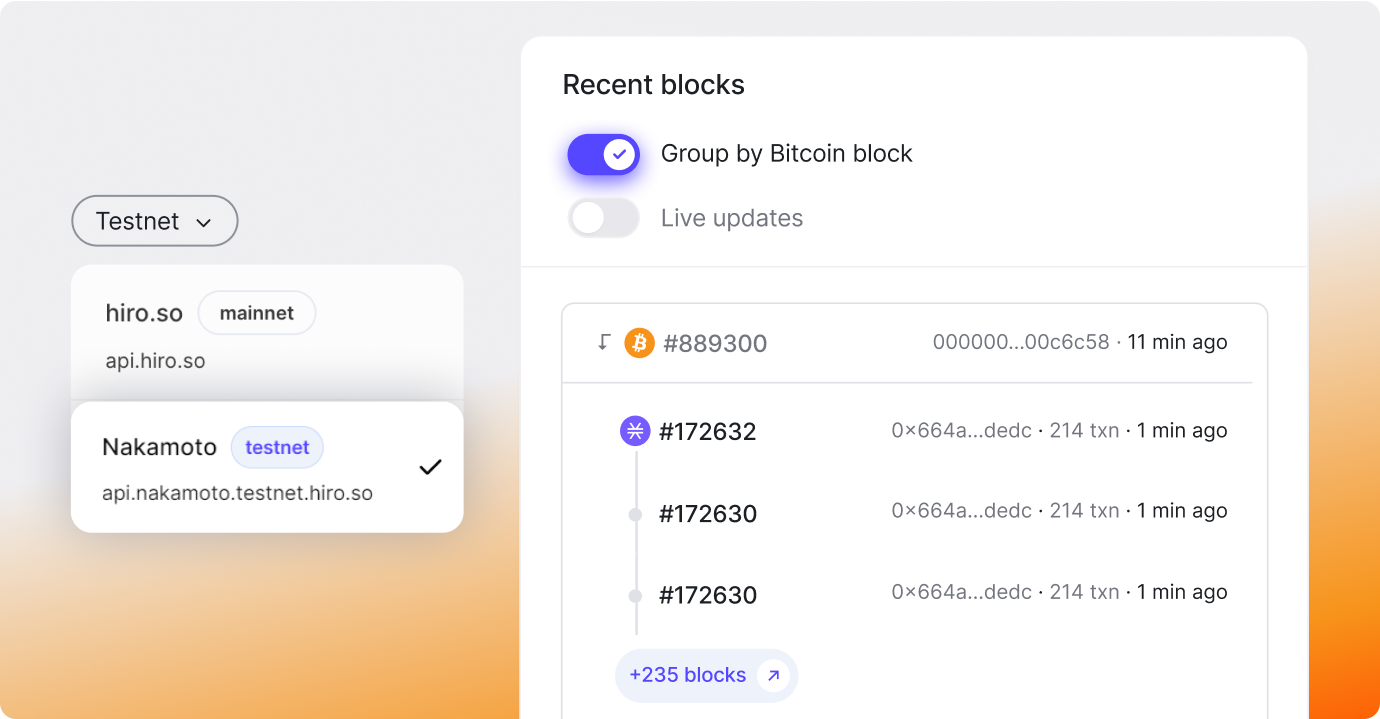
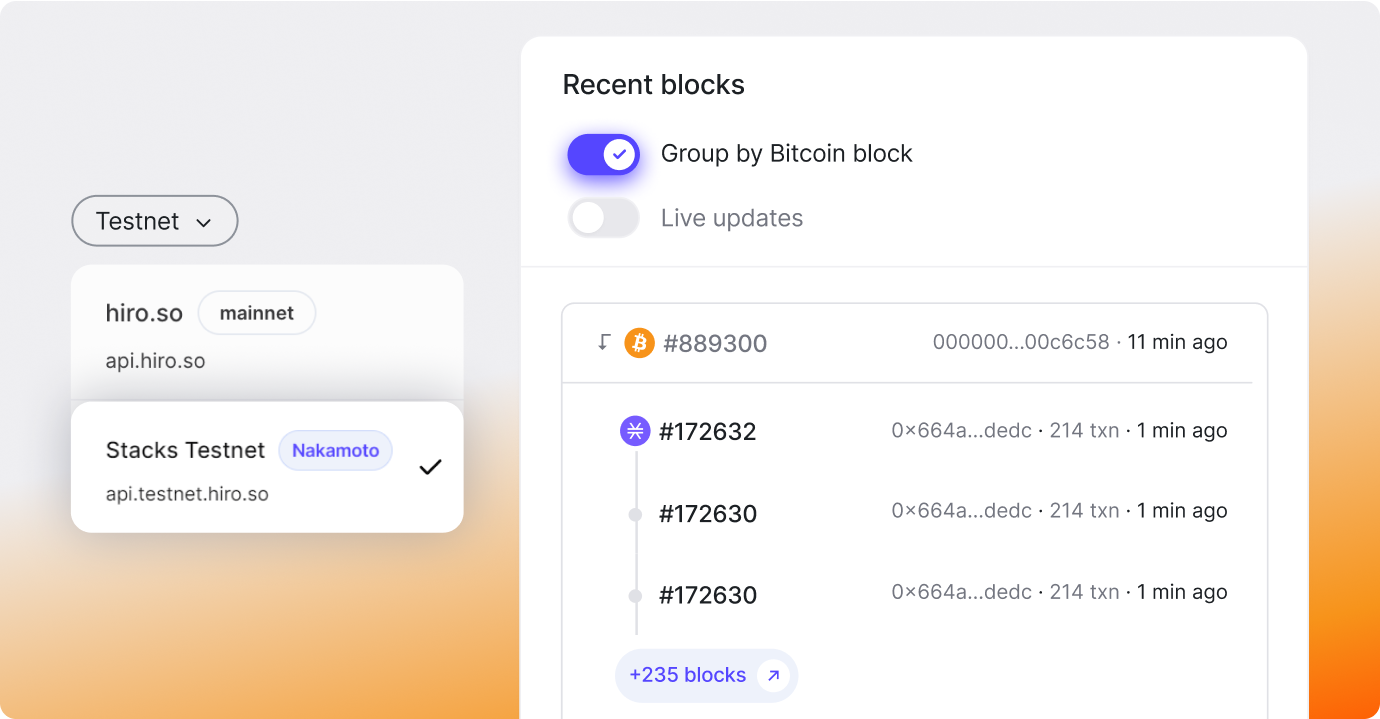
feat: epoch 2.5 testnet updates

Changed region(s): [[0.0623, 0.6732, 0.2804, 0.7038], [0.0623, 0.612, 0.2804, 0.6426]]

diff --git a/src/app/_components/PageWrapper.tsx b/src/app/_components/PageWrapper.tsx
@@ -1,22 +1,16 @@
 'use client';
 
 import { useColorModeValue } from '@chakra-ui/react';
-import { css } from '@emotion/react';
 import React, { ReactNode } from 'react';
-import { IncidentImpact } from 'statuspage.io';
 
 import { AddNetworkModal } from '../../common/components/modals/AddNetwork';
 import { NakamotoModal } from '../../common/components/modals/Nakamoto';
 import { TokenPrice } from '../../common/types/tokenPrice';
 import { Flex } from '../../ui/Flex';
-import { Text } from '../../ui/Text';
-import { TextLink } from '../../ui/TextLink';
 import { Footer } from './Footer';
 import { NavBar } from './NavBar';
 import { NetworkModeToast } from './NetworkModeToast';
 import { IncidentsStatusBarWithErrorBoundary } from './StatusBar';
-import { StatusBarBase } from './StatusBar/StatusBarBase';
-import { getColor } from './StatusBar/utils';
 
 function WrapperWithBg({ children }: { children: ReactNode }) {
   return (
@@ -62,36 +56,6 @@ export function PageWrapper({
 }) {
   return (
     <>
-      <StatusBarBase
-        impact={IncidentImpact.Minor}
-        content={
-          <Flex direction={'column'}>
-            <Text
-              color={getColor(IncidentImpact.Minor)}
-              fontWeight={'medium'}
-              fontSize={'14px'}
-              lineHeight={'1.5'}
-            >
-              https://api.testnet.hiro.so/ will be Nakamoto Instantiated [epoch-2.5] at Burn Block
-              2,583,893. The current chainstate will stay intact for this update and will not be
-              reset.
-            </Text>
-            <Text fontWeight={400} fontSize={'14px'} color={'#000000'} lineHeight={'1.5'}>
-              <TextLink
-                href="https://stacks.org/nakamoto-testnet-instantiated"
-                target="_blank"
-                css={css`
-                  display: inline;
-                  text-decoration: underline;
-                `}
-              >
-                More details here
-              </TextLink>
-              .
-            </Text>
-          </Flex>
-        }
-      />
       <IncidentsStatusBarWithErrorBoundary />
       <NakamotoModal />
       <WrapperWithBg>

diff --git a/src/common/context/GlobalContext.tsx b/src/common/context/GlobalContext.tsx
@@ -41,7 +41,7 @@ export const GlobalContext = createContext<GlobalContextProps>({
   btcTxBaseUrls: NetworkModeBtcTxBaseUrlMap,
   btcAddressBaseUrls: NetworkModeBtcAddressBaseUrlMap,
   activeNetwork: {
-    label: 'hiro.so',
+    label: 'Stacks Mainnet',
     url: NetworkModeUrlMap[NetworkModes.Mainnet],
     btcBlockBaseUrl: NetworkModeBtcBlockBaseUrlMap[NetworkModes.Mainnet],
     btcTxBaseUrl: NetworkModeBtcTxBaseUrlMap[NetworkModes.Mainnet],
@@ -102,7 +102,7 @@ export const AppContextProvider: FC<{
   const networks: Record<string, Network> = useMemo<Record<string, Network>>(
     () => ({
       [apiUrls[NetworkModes.Mainnet]]: {
-        label: 'hiro.so',
+        label: 'Stack Mainnet',
         url: apiUrls[NetworkModes.Mainnet],
         btcBlockBaseUrl: NetworkModeBtcBlockBaseUrlMap[NetworkModes.Mainnet],
         btcTxBaseUrl: NetworkModeBtcTxBaseUrlMap[NetworkModes.Mainnet],
@@ -111,7 +111,7 @@ export const AppContextProvider: FC<{
         mode: NetworkModes.Mainnet,
       },
       'https://api.nakamoto.testnet.hiro.so': {
-        label: 'Nakamoto',
+        label: 'Nakamoto Testnet',
         url: 'https://api.nakamoto.testnet.hiro.so',
         btcBlockBaseUrl: NetworkModeBtcBlockBaseUrlMap[NetworkModes.Testnet],
         btcTxBaseUrl: NetworkModeBtcTxBaseUrlMap[NetworkModes.Testnet],
@@ -121,7 +121,7 @@ export const AppContextProvider: FC<{
         isCustomNetwork: true,
       },
       [apiUrls[NetworkModes.Testnet]]: {
-        label: 'hiro.so',
+        label: 'Stacks Testnet',
         url: apiUrls[NetworkModes.Testnet],
         btcBlockBaseUrl: NetworkModeBtcBlockBaseUrlMap[NetworkModes.Testnet],
         btcTxBaseUrl: NetworkModeBtcTxBaseUrlMap[NetworkModes.Testnet],
@@ -130,7 +130,7 @@ export const AppContextProvider: FC<{
         mode: NetworkModes.Testnet,
       },
       [DEFAULT_DEVNET_SERVER]: {
-        label: 'devnet',
+        label: 'Devnet',
         url: DEFAULT_DEVNET_SERVER,
         btcBlockBaseUrl: NetworkModeBtcBlockBaseUrlMap[NetworkModes.Testnet],
         btcTxBaseUrl: NetworkModeBtcTxBaseUrlMap[NetworkModes.Testnet],

diff --git a/src/app/_components/NavBar/NetworkLabel.tsx b/src/app/_components/NavBar/NetworkLabel.tsx
@@ -67,14 +67,17 @@ export const NetworkLabel: FC<{ network: Network }> = ({ network }) => {
       >
         <Flex alignItems="center">
           <Title display="block" fontSize={'14px'}>
-            {network.label === 'https://api.nakamoto.testnet.hiro.so' ? 'Nakamoto' : network.label}
+            {network.label === 'https://api.nakamoto.testnet.hiro.so'
+              ? 'Nakamoto Testnet'
+              : network.label}
           </Title>
           {network.isSubnet ? (
             <Badge bg={`bg4.${colorMode}`} ml="8px" color={`textCaption.${colorMode}`}>
               subnet
             </Badge>
-          ) : network.label === 'Nakamoto' ||
-            network.label === 'https://api.nakamoto.testnet.hiro.so' ? (
+          ) : network.label.includes('Nakamoto') ||
+            network.label === 'https://api.nakamoto.testnet.hiro.so' ||
+            network.url.includes('api.testnet') ? (
             <Badge
               color={'purple.600'}
               bg={'purple.100'}
@@ -87,11 +90,7 @@ export const NetworkLabel: FC<{ network: Network }> = ({ network }) => {
               fontWeight={'medium'}
               ml="8px"
             >
-              {itemNetworkMode}
-            </Badge>
-          ) : itemNetworkMode ? (
-            <Badge bg={`bg4.${colorMode}`} ml="8px" color={`textCaption.${colorMode}`}>
-              {itemNetworkMode}
+              Nakamoto
             </Badge>
           ) : null}
         </Flex>
@@ -107,7 +106,7 @@ export const NetworkLabel: FC<{ network: Network }> = ({ network }) => {
         ) : network.isCustomNetwork &&
           !isDevnet &&
           !isActive &&
-          network.label !== 'Nakamoto' &&
+          !network.label.includes('Nakamoto') &&
           network.label !== 'https://api.nakamoto.testnet.hiro.so' ? (
           <Tooltip label="Remove network">
             <IconButton

diff --git a/src/app/_components/NavBar/__tests__/NetworkLabel.test.tsx b/src/app/_components/NavBar/__tests__/NetworkLabel.test.tsx
@@ -68,12 +68,6 @@ describe('NetworkLabel', () => {
     });
   });
 
-  it('renders mainnet badge for mainnet network', () => {
-    const { getByText } = render(<NetworkLabel network={network} />);
-    expect(getByText('Mainnet')).toBeInTheDocument();
-    expect(getByText('mainnet')).toBeInTheDocument();
-  });
-
   it('renders spinner while fetching custom network info', () => {
     (useQuery as jest.Mock).mockReturnValue({
       isFetching: true,

diff --git a/src/app/PageClient.tsx b/src/app/PageClient.tsx
@@ -40,7 +40,7 @@ export default function Home() {
       >
         <TxListTabs limit={DEFAULT_LIST_LIMIT_SMALL} showFilterButton={false} />
 
-        {activeNetworkKey.indexOf('naka') !== -1 ? (
+        {activeNetworkKey.indexOf('naka') !== -1 || activeNetworkKey.indexOf('testnet') !== -1 ? (
           <UpdatedBlocksList limit={DEFAULT_BLOCKS_LIST_LIMIT} />
         ) : (
           <BlocksList limit={DEFAULT_BLOCKS_LIST_LIMIT} />

diff --git a/src/app/blocks/PageClient.tsx b/src/app/blocks/PageClient.tsx
@@ -27,7 +27,11 @@ const BlocksPage: NextPage = () => {
   return (
     <>
       <PageTitle>Blocks</PageTitle>
-      {activeNetworkKey.indexOf('naka') !== -1 ? <PaginatedBlockListLayoutA /> : <BlocksList />}
+      {activeNetworkKey.indexOf('naka') !== -1 || activeNetworkKey.indexOf('testnet') !== -1 ? (
+        <PaginatedBlockListLayoutA />
+      ) : (
+        <BlocksList />
+      )}
     </>
   );
 };

diff --git a/src/common/components/modals/Nakamoto.tsx b/src/common/components/modals/Nakamoto.tsx
@@ -62,7 +62,7 @@ export function NakamotoModal() {
             </Text>
             <ButtonLink
               variant={'primary'}
-              href={'/?chain=testnet&api=https://api.nakamoto.testnet.hiro.so'}
+              href={'/?chain=testnet'}
               onClick={() => {
                 handleClose();
                 void queryClient.clear();
